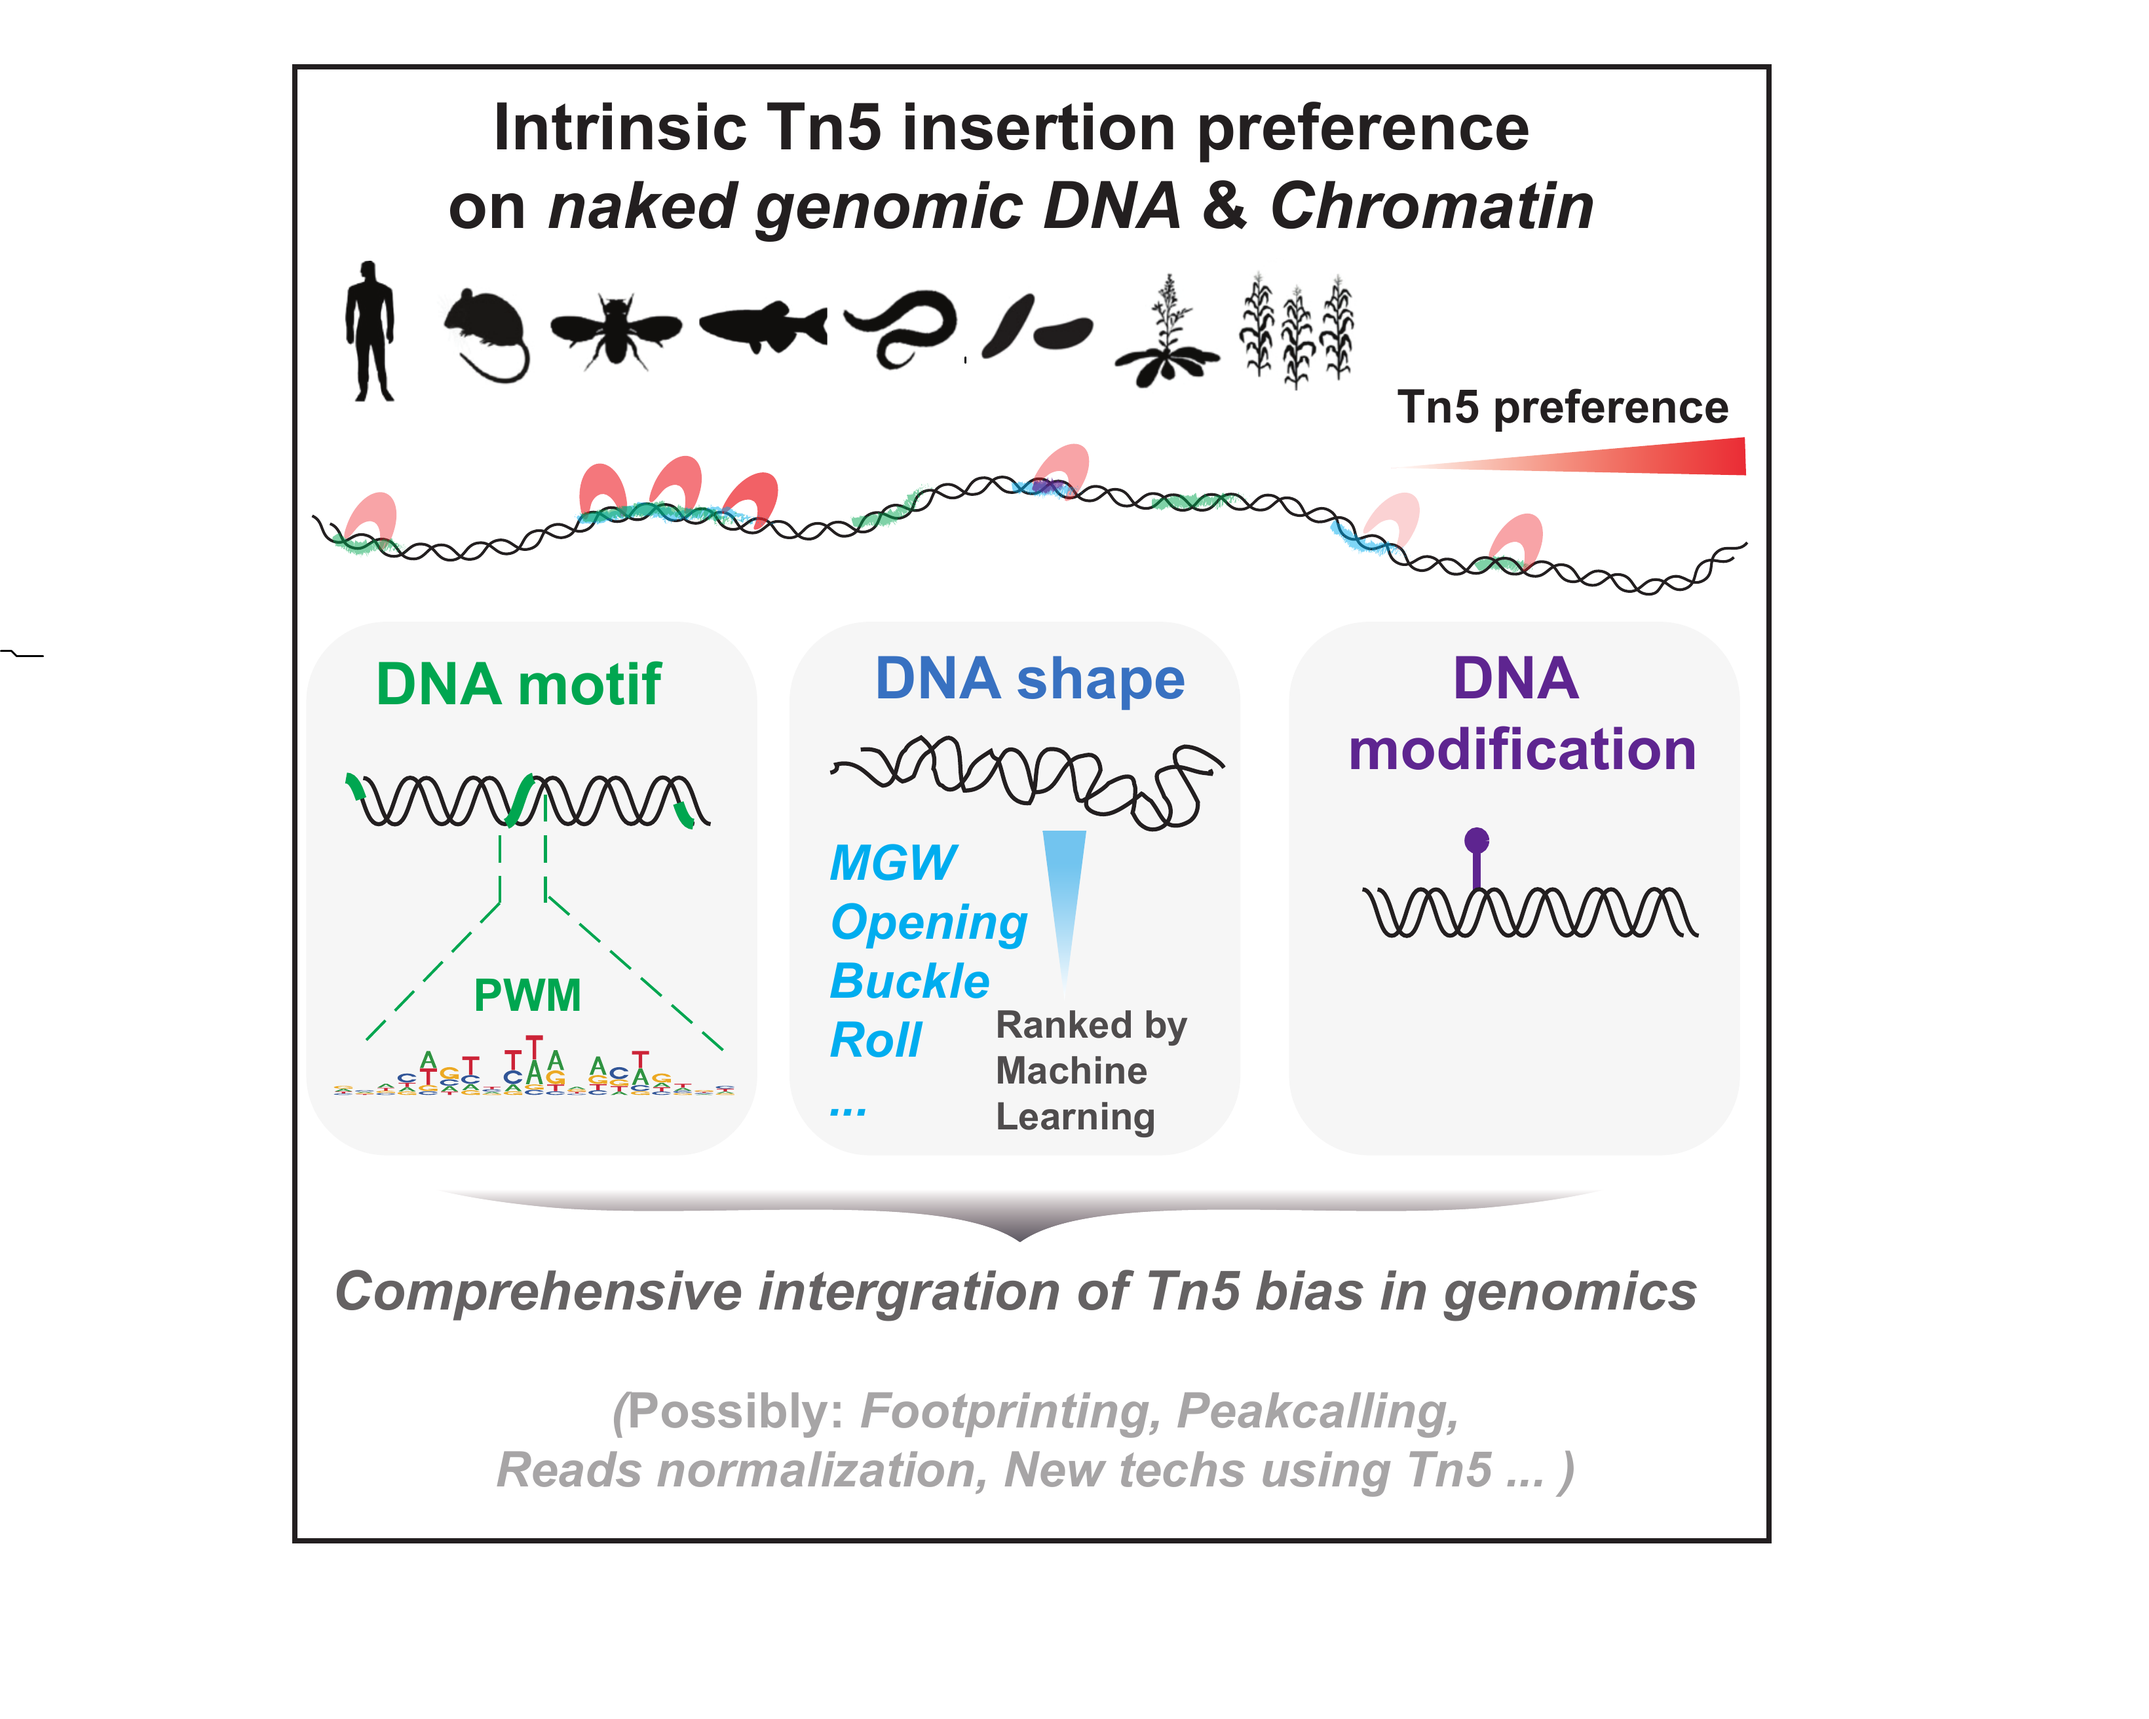
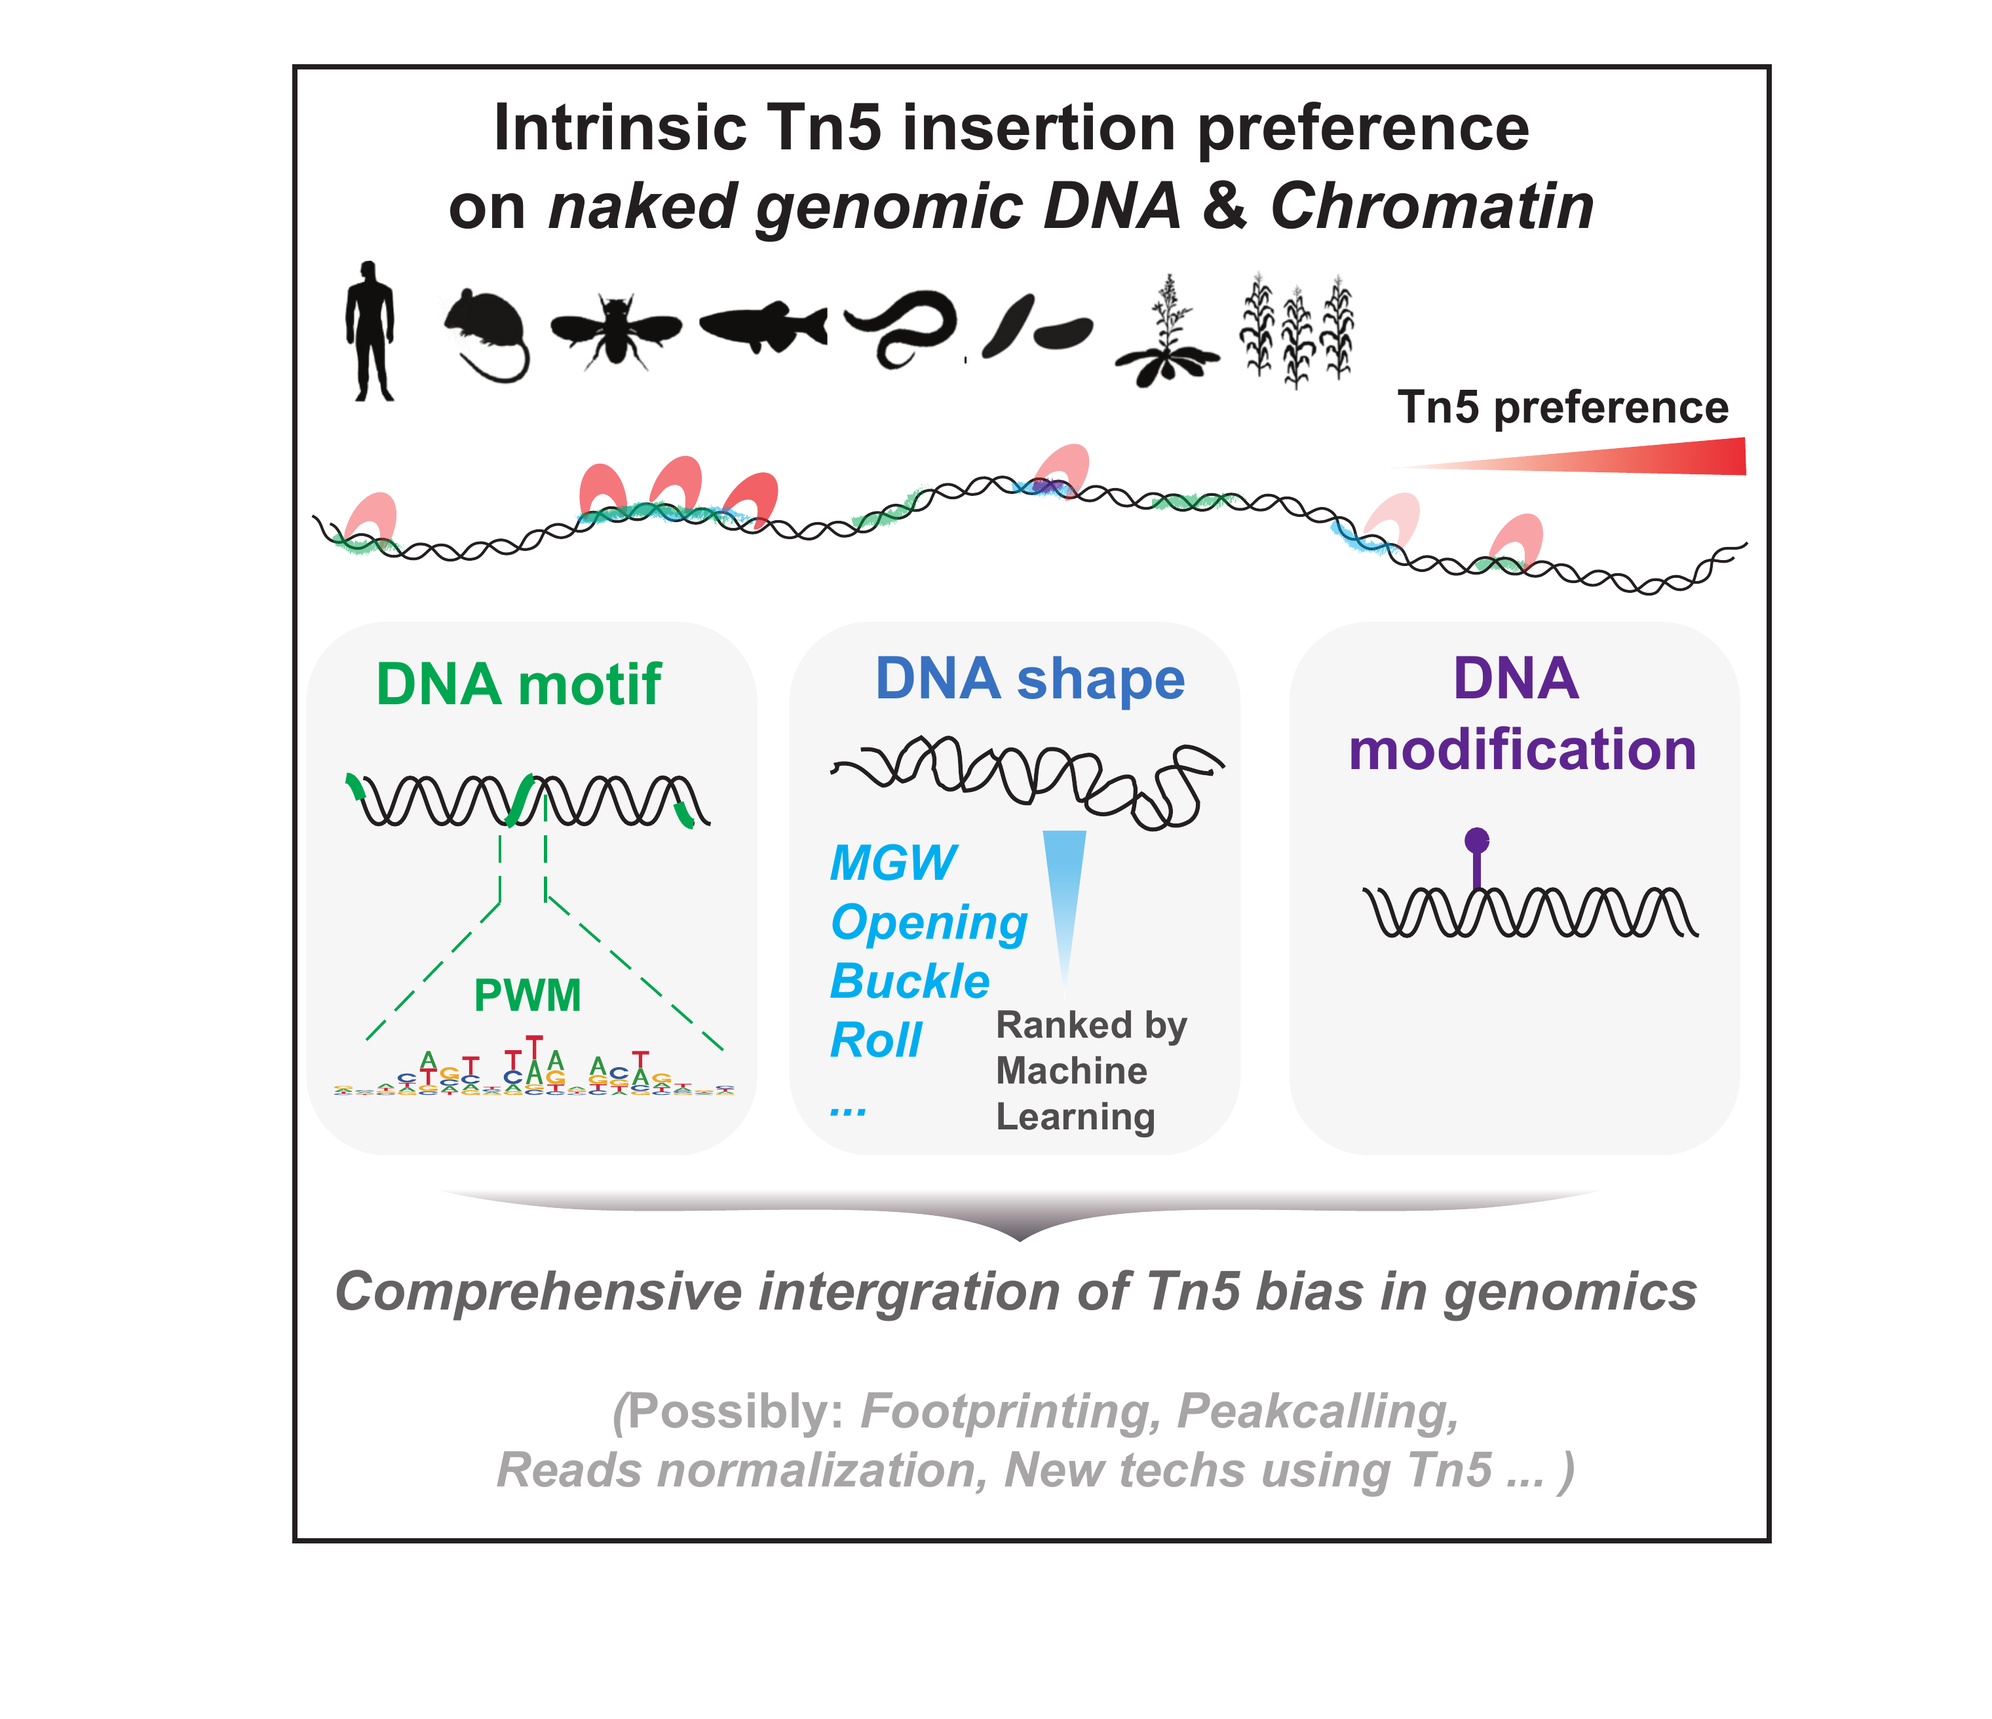
update

diff --git a/README.md b/README.md
@@ -14,7 +14,7 @@ Here we systematically explored Tn5 insertion characteristics across several mod
 
 To promote bias-corrected ATAC-seq analysis, we hence developed a pipeline for this purpose. Using our pipeline, we showed the bias correction would improve the overall performance of ATAC-seq peak detection. Importantly, we showed that with bias correction, many potential false-negative peaks could be recovered. By conducting a genome-wide transcription factors (TFs) enrichment analysis, we found these peaks contain abundant TFs. We propose that a comprehensive understanding and precise correction of Tn5 insertion preference could broaden the view of Tn5-assisted sequencing data. 
 
-<img align="left" width=1000 src="https://github.com/YenLab/Tn5InsertPrefer/blob/main/StandaloneScripts/GraphicalAbstract.png">
+<img align="left" width=700 src="https://github.com/YenLab/Tn5InsertPrefer/blob/main/StandaloneScripts/GraphicalAbstract.png">
 
 ## Scripts organization
 
